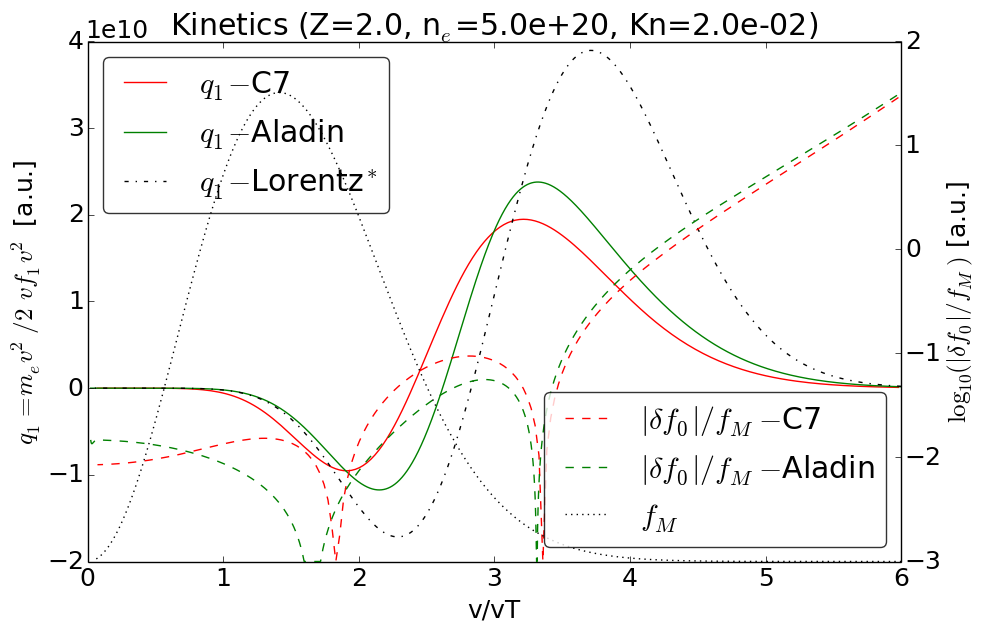
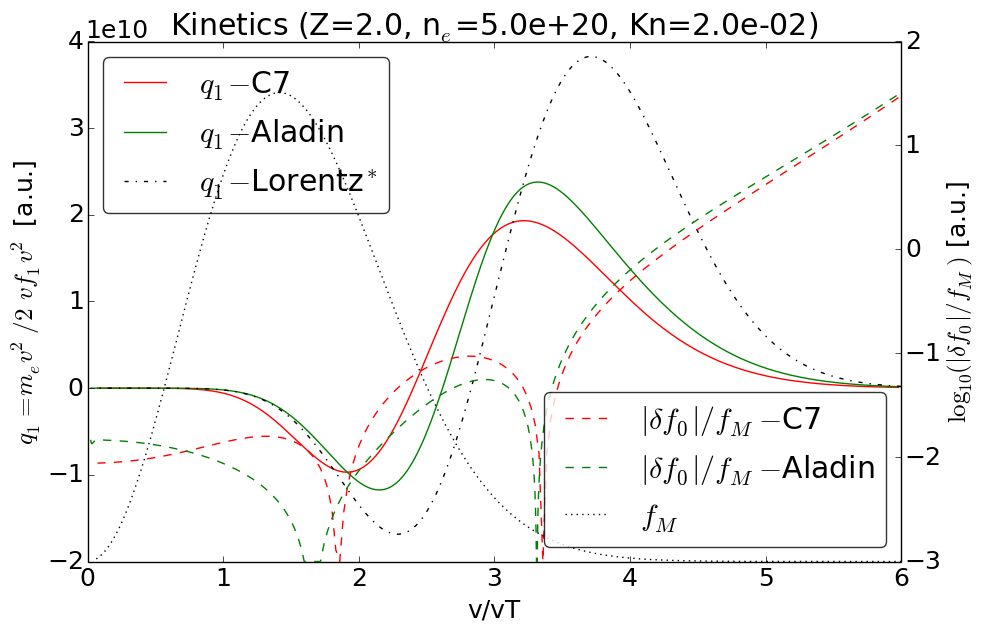
Implementation of the weak gradAf0 for Efield.

diff --git a/c7_solver.cpp b/c7_solver.cpp
@@ -599,6 +599,7 @@ void C7Operator::ImplicitSolve(const double dv, const Vector &F, Vector &dFdv)
    Mf1nu.SpMat().Add(1.0 / velocity_real, *VAE_invM0_tVE_);
 
    dF1E = 0.0;
+   // START HERE
    Vector B_, X_;
    HypreParMatrix A_;
    Mf1nu.FormLinearSystem(ess_tdofs, dF1E, dF1E_rhs, A_, X_, B_);
@@ -839,37 +840,48 @@ void C7Operator::ImplicitSolve(const double dv, const Vector &F, Vector &dFdv)
    Coefficient &P1a0_cf = *(AWBSPhysics->P1a0_pcf);
    da0_gf.ProjectCoefficient(P1a0_cf);
 
-   //fM_source = 0.0;
-   // Put together fM and delta f0.
-   fM_source += F0;
-/*
-   // Find the weak solution to 1/nut*grad(fM + delta f0).
-   ParGridFunction gradAf(&H1FESpace), gradAf_rhs(&H1FESpace);
-   Divf1.Mult(fM_source, gradAf_rhs);
-   gradAf = 0.0;
-   Mf1nu.FormLinearSystem(ess_tdofs, gradAf, gradAf_rhs, A, X, B);
-   bool verbose_gradAf = false;
-   HypreBoomerAMG amg_gradAf(A);
-   HyprePCG pcg_gradAf(A);
-   pcg_gradAf.SetTol(cg_rel_tol);
-   pcg_gradAf.SetMaxIter(cg_max_iter);
-   pcg_gradAf.SetPrintLevel(verbose_gradAf);
-   pcg_gradAf.SetPreconditioner(amg_gradAf);
-   amg_gradAf.SetPrintLevel(verbose);
-   pcg_gradAf.Mult(B, X);
+   ////////////////////////////////////////////////////////////////////////////
+   ///// The weak solution to 1/nut*grad(fM + delta f0) ///////////////////////
+   ////////////////////////////////////////////////////////////////////////////
+   ParGridFunction gradAf0(&H1FESpace), gradAf0_rhs(&H1FESpace);
+   // Weak derivative.
+   Divf1.Mult(fM_source, gradAf0_rhs);
+   Divf1.AddMult(F0, gradAf0_rhs);
+   gradAf0_rhs.Neg();
+   // Initialize unknown vector.
+   gradAf0 = 0.0;
+   Vector B_, X_;
+   HypreParMatrix A_;
+   Mf1nut.FormLinearSystem(ess_tdofs, gradAf0, gradAf0_rhs, A_, X_, B_);
+   bool verbose_gradAf0 = false;
+   HypreBoomerAMG amg_gradAf0(A_);
+   HyprePCG pcg_gradAf0(A_);
+   pcg_gradAf0.SetTol(cg_rel_tol);
+   pcg_gradAf0.SetMaxIter(cg_max_iter);
+   pcg_gradAf0.SetPrintLevel(verbose_gradAf0);
+   pcg_gradAf0.SetPreconditioner(amg_gradAf0);
+   amg_gradAf0.SetPrintLevel(verbose);
+   pcg_gradAf0.Mult(B_, X_);
    timer.sw_cgH1.Stop();
-   int PCGNumIter_gradAf;
-   pcg_gradAf.GetNumIterations(PCGNumIter_gradAf);
-   timer.H1dof_iter += PCGNumIter_gradAf * H1compFESpace.GlobalTrueVSize();
+   int PCGNumIter_gradAf0;
+   pcg_gradAf0.GetNumIterations(PCGNumIter_gradAf0);
+   timer.H1dof_iter += PCGNumIter_gradAf0 * H1compFESpace.GlobalTrueVSize();
    if (H1FESpace.GetParMesh()->GetMyRank() == 0)
    { 
-      cout << "HyprePCG_gradAf(BoomerAMG) GetNumIterations: " 
-           <<  PCGNumIter_gradAf << endl << flush;
+      cout << "HyprePCG_gradAf0(BoomerAMG) GetNumIterations: " 
+           <<  PCGNumIter_gradAf0 << endl << flush;
    }    
-   Mf1nu.RecoverFEMSolution(X, gradAf_rhs, gradAf);
-*/
+   Mf1nut.RecoverFEMSolution(X_, gradAf0_rhs, gradAf0);
+   ////////////////////////////////////////////////////////////////////////////
+   ///// The weak solution to 1/nut*grad(fM + delta f0) ///////////////////////
+   ////////////////////////////////////////////////////////////////////////////
+
    // Evaluate the P1b0 coefficient.
-   AWBSPhysics->P1b0_pcf->SetF0(&fM_source);
+   AWBSPhysics->P1b0_pcf->SetF1(&gradAf0);
+   //fM_source = 0.0;
+   // Put together fM and delta f0.
+   //fM_source += F0;
+   //AWBSPhysics->P1b0_pcf->SetF0(&fM_source);
    //AWBSPhysics->P1b0_pcf->SetF0(&F0);
    AWBSPhysics->P1b0_pcf->SetdF1(&dF1);
    AWBSPhysics->P1b0_pcf->SetVelocityReal(velocity_real);
@@ -1078,7 +1090,8 @@ void C7Operator::UpdateQuadratureData(double velocity, const Vector &S) const
                   double M = min(f1norm / f0norm, 1.0);
                   double Msquare = M * M;
                   double c = Msquare / 2.0 * (1.0 + Msquare);
-				  cout << "c: " << c << endl << flush;
+				  cout << "(f1/f0)^2 / 2.0 * (1.0 + (f1/f0)^2): " << c << endl 
+				       << flush;
                   // Shotr version for 1D.
                   AM1_b[z](q) = P1;
                   AM1_b[z](q) *= 1.0 + 2.0 * c;

diff --git a/AWBSphysics.cpp b/AWBSphysics.cpp
@@ -151,13 +151,16 @@ void P1b0KineticCoefficient::Eval(Vector &V, ElementTransformation &T,
    //double nu_t = nu_ei + nu_ee + nu_E;
 
    T.SetIntPoint(&ip);
-   F0->GetGradient(T, V); 
-   // Scattering on ions and electrons.
-   V *= 1.0 / 3.0 / nu_t;
+   //F0->GetGradient(T, V); 
+   //// Scattering on ions and electrons.
+   //V *= 1.0 / 3.0 / nu_t;
    
    for (int d = 0; d < vdim; d++)
    { 
-      // Scattering on ions and electrons.
+	  // Gradient of A(fM + df0) divided by nu_t contribution 
+	  // It is stored in F1 pointer.
+	  V(d) = F1->GetValue(T.ElementNo, ip, d);
+	  // Scattering on ions and electrons.
       V(d) -= (nu_ee + nu_E) / nu_t * dF1->GetValue(T.ElementNo, ip, d);
       //V(d) -= nu_ee / nu_t * dF1->GetValue(T.ElementNo, ip, d);
    }
